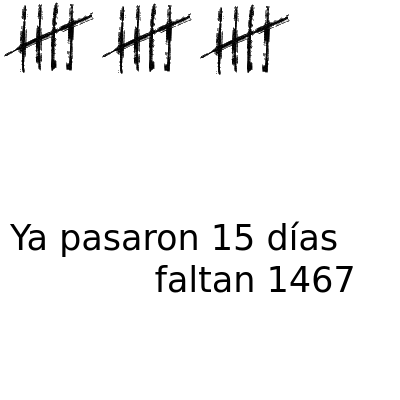
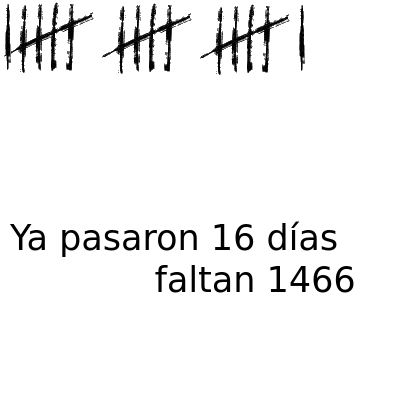
deploy: 28882f26f23b9f53dac6c4991168e610486d0e44

diff --git a/index.html b/index.html
@@ -3,19 +3,19 @@
   <head>
     <meta charset='utf-8'>
     <meta http-equiv='X-UA-Compatible' content='IE=edge'>
-    <title>Ya pasaron 15 días y faltan 1467</title>
-    <meta name="description" content="Ya pasaron 15 días y faltan 1467">
-    <meta itemprop="name" content="Ya pasaron 15 días y faltan 1467">
-    <meta itemprop="description" content="Ya pasaron 15 días y faltan 1467">
+    <title>Ya pasaron 16 días y faltan 1466</title>
+    <meta name="description" content="Ya pasaron 16 días y faltan 1466">
+    <meta itemprop="name" content="Ya pasaron 16 días y faltan 1466">
+    <meta itemprop="description" content="Ya pasaron 16 días y faltan 1466">
     <meta name="twitter:card" content="summary">
-    <meta name="twitter:title" content="Ya pasaron 15 días y faltan 1467">
-    <meta name="twitter:description" content="Ya pasaron 15 días y faltan 1467">
+    <meta name="twitter:title" content="Ya pasaron 16 días y faltan 1466">
+    <meta name="twitter:description" content="Ya pasaron 16 días y faltan 1466">
     <meta name="twitter:creator" content="@FloriusWasTaken">
     <meta name="twitter:image" content="https://pasaron.meme.ar/capture.png">
-    <meta property="og:title" content="Ya pasaron 15 días y faltan 1467">
-    <meta property="og:description" content="Ya pasaron 15 días y faltan 1467">
+    <meta property="og:title" content="Ya pasaron 16 días y faltan 1466">
+    <meta property="og:description" content="Ya pasaron 16 días y faltan 1466">
     <meta property="og:url" content="https://pasaron.meme.ar">
-    <meta property="og:site_name" content="Ya pasaron 15 días y faltan 1467">
+    <meta property="og:site_name" content="Ya pasaron 16 días y faltan 1466">
     <meta property="og:type" content="website">
     <meta property="og:image" content="https://pasaron.meme.ar/capture.png">
     <meta name="theme-color" content="#dc143c">
@@ -69,16 +69,18 @@
         padding: 0;
       }
     </style>
-    <title>Ya pasaron 15 días y faltan 1467</title>
+    <title>Ya pasaron 16 días y faltan 1466</title>
   </head>
   <body>
     <div id="main">
       <img src="img/5.png"/><img src="img/5.png"/><img src="img/5.png"/>
       
+        <img src="img/1.png"/>
+      
     </div>
     <footer id="footer">
       <marquee id="marquee" class="is-vertical-align">
-        Ya pasaron 15 días y faltan 1467
+        Ya pasaron 16 días y faltan 1466
       </marquee>
       <ul>
         <li>
